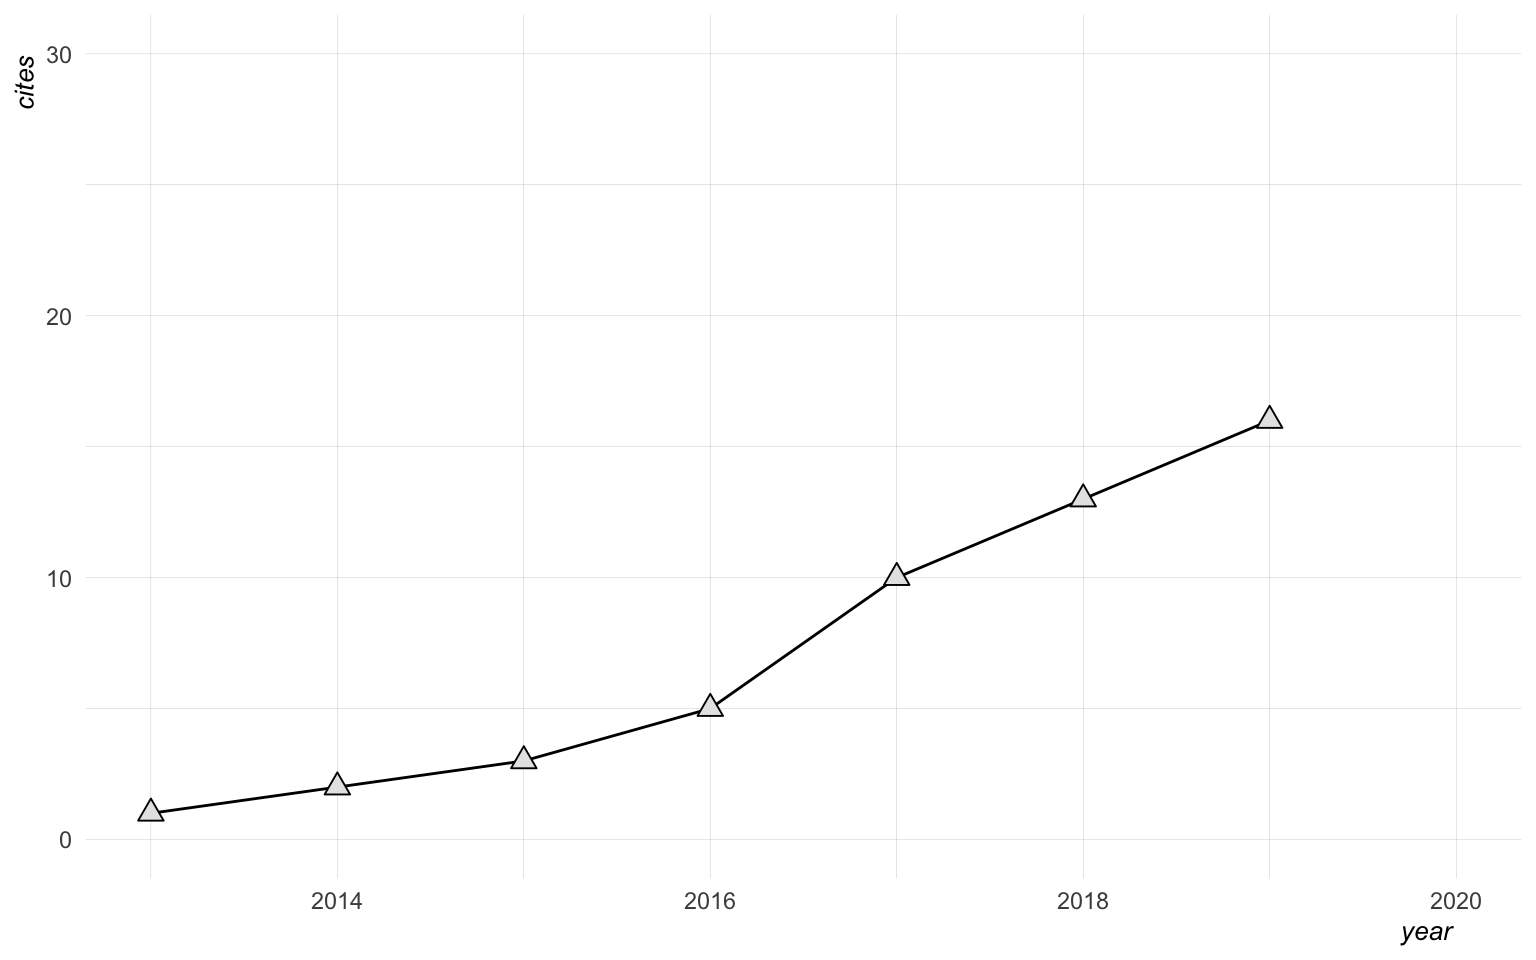
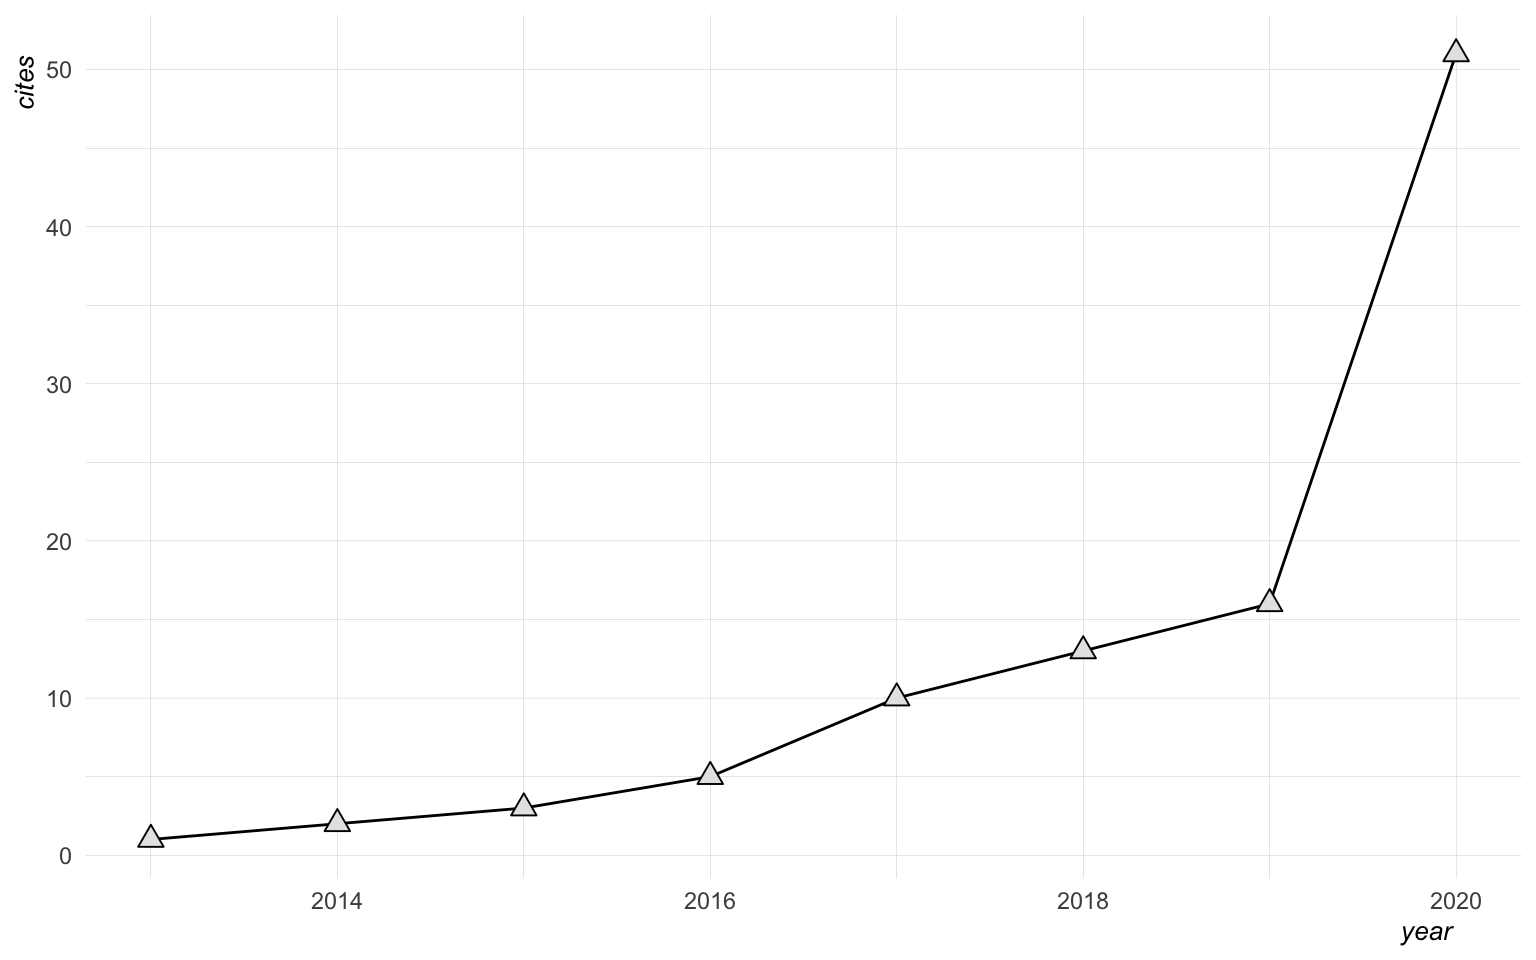
update soome artickes

diff --git a/README.md b/README.md
@@ -1,7 +1,7 @@
 
 # mybib
 
-**Last Updated**: 2021-01-07 15:22:15  
+**Last Updated**: 2021-01-07 22:28:48  
 **License**: Public Domain (CC-0)
 
 Version controlled .bib files for my scholarly work, as well as some
@@ -73,7 +73,7 @@ datj <- aggregate(bibtype ~ journal, data = bib, FUN = length)
 
 dat %>% 
   group_by(., journal) %>% 
-  summarize(., counts = n()) %>% 
+  summarize(., counts = n(), .groups = "drop") %>% 
   na.omit() %>% 
   mutate(., journal = fct_reorder(journal, counts)) %>% 
   ggplot(., aes(x = journal, y = counts, label = counts)) + 
@@ -85,8 +85,6 @@ dat %>%
     coord_flip() + 
     my_theme()
 ```
-
-    ## `summarise()` ungrouping output (override with `.groups` argument)
 
 <img src="README_files/figure-gfm/journal-1.png" width="768" />
 
@@ -107,7 +105,7 @@ map(authors, HTMLdecode) %>%
   unlist(.) %>% 
   enframe(.) %>% 
   group_by(., value) %>% 
-  summarize(., counts = n()) %>% 
+  summarize(., counts = n(), .groups = "drop") %>% 
   mutate(., value = fct_reorder(value, counts)) %>% 
   ggplot(., aes(x = value, y = counts, label = counts)) + 
     geom_bar(stat = "identity", color = 'black', 
@@ -119,8 +117,6 @@ map(authors, HTMLdecode) %>%
     my_theme()
 ```
 
-    ## `summarise()` ungrouping output (override with `.groups` argument)
-
 <img src="README_files/figure-gfm/authors-1.png" width="768" />
 
 ## Publication Years
@@ -130,7 +126,7 @@ prod <- dat %>%
   select(., year) %>% 
   na.omit(.) %>% 
   group_by(., year) %>% 
-  summarize(., counts = n()) %>% 
+  summarize(., counts = n(), .groups = "drop") %>% 
   ungroup(.) %>% 
   mutate(., status = if_else(year <=2012, 'MA\nStudent', 
                              if_else(year <=2016, 'PhD\nStudent', 
@@ -138,11 +134,7 @@ prod <- dat %>%
             status = fct_relevel(status, 
                                  c('MA\nStudent', 'PhD\nStudent', 
                                    'Asst.\nProf')))
-```
 
-    ## `summarise()` ungrouping output (override with `.groups` argument)
-
-``` r
 year_max <- max(prod$counts)
 year_current <- prod$year %>% unique %>% max
 
@@ -259,13 +251,8 @@ my_c %>%
   ggplot(., aes(x = year, y = cites)) + 
     geom_path() + 
     geom_point(pch = 24, fill = "grey90", size = 3) + 
-    ylim(0, 30) + 
     my_theme()
 ```
-
-    ## Warning: Removed 1 row(s) containing missing values (geom_path).
-
-    ## Warning: Removed 1 rows containing missing values (geom_point).
 
 <img src="README_files/figure-gfm/citation-history-1.png" width="768" />
 
@@ -314,13 +301,15 @@ comparable. 😳
   - Language and Speech
   - Language Learning
   - Studies in SLA (replication study)
+  - Languages
 
 ## Submitted
+
+  - Some translation journal
 
 ## In prep
 
   - JASA
-  - Languages
   - Language learning
 
 ## On deck
